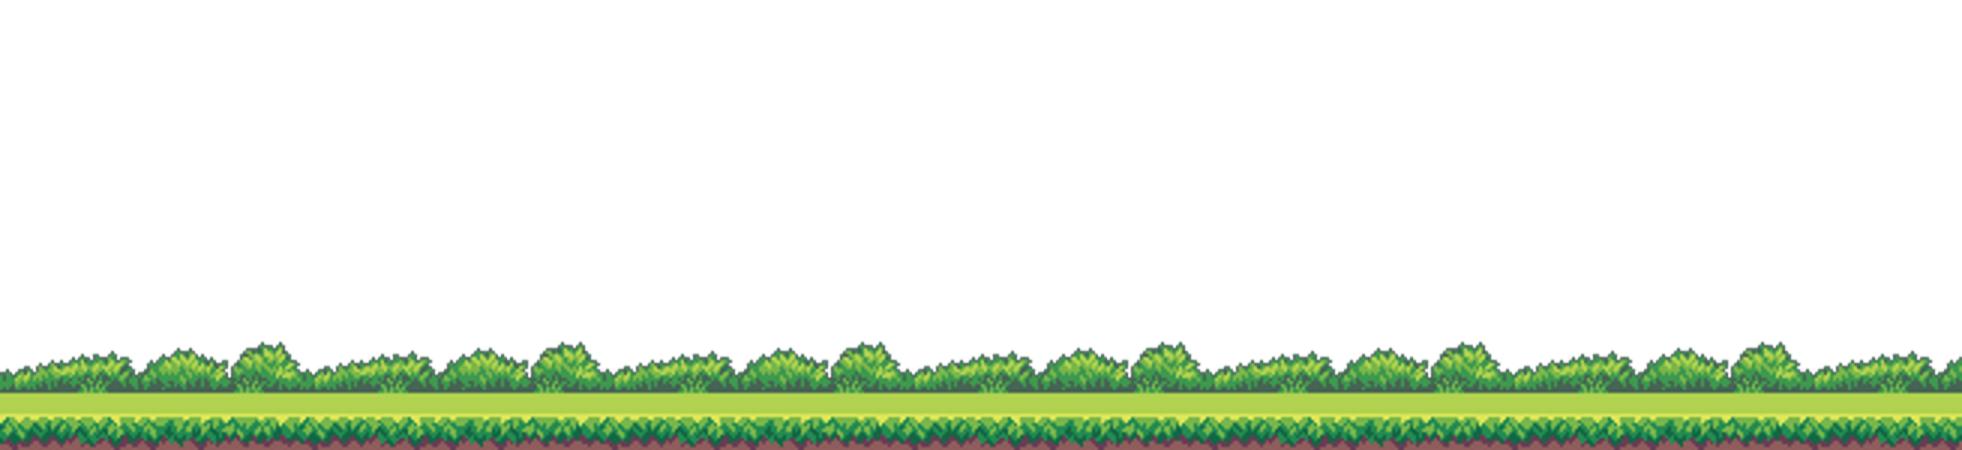
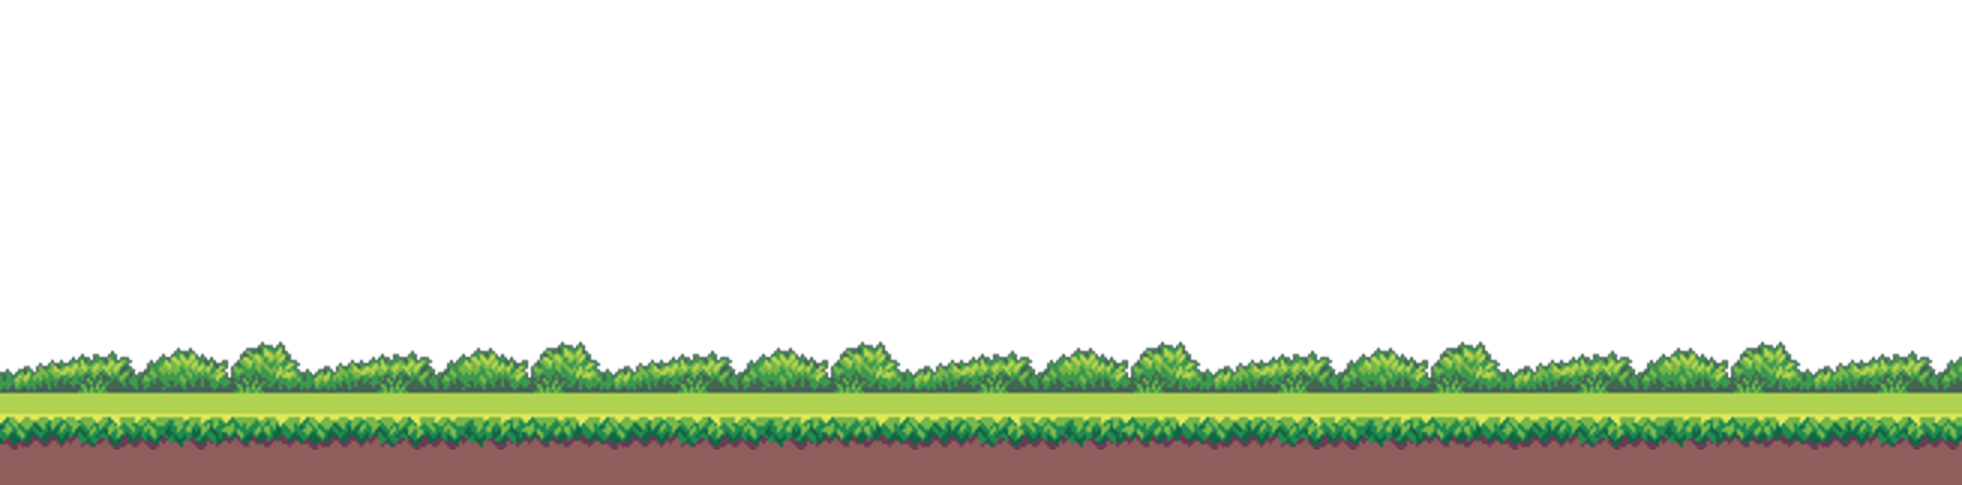
Changed grass layer and code for bottom UI area

Changed region(s): [[0.0, 0.6844, 1.0, 1.0]]

diff --git a/core/src/asu/gunma/ui/util/BackgroundDrawer.java b/core/src/asu/gunma/ui/util/BackgroundDrawer.java
@@ -73,7 +73,7 @@ public class BackgroundDrawer {
 
         this.batch.draw(this.sky,0, this.screen_bottom_adjust);
         this.batch.draw(this.mountain, (int) this.mountainPosition, this.screen_bottom_adjust);
-        this.batch.draw(this.grass, (int) this.grassPosition, this.screen_bottom_adjust);
+        this.batch.draw(this.grass, (int) this.grassPosition, 0); // This is not adjust; this is why everything else is adjusted
         if (this.grassPosition < -600) {
             this.grassPosition = 0;
         }
